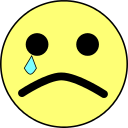
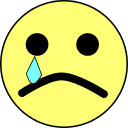
Bigger tear :cry: Also fix the dev version's number.

Changed region(s): [[0.1875, 0.4375, 0.3438, 0.6562]]

diff --git a/tymoji.user.js b/tymoji.user.js
@@ -10,7 +10,7 @@
 // @include     http://scratch.mit.edu/accounts/password_change/*
 // @include     https://scratch.mit.edu/accounts/email_change/*
 // @include     http://scratch.mit.edu/accounts/email_change/*
-// @version     0.2-dev004
+// @version     0.2-dev005
 // @updateURL   https://www.github.com/Tymewalk/Tymoji/raw/master/tymoji.user.js
 // @grant       metadata
 // ==/UserScript==
